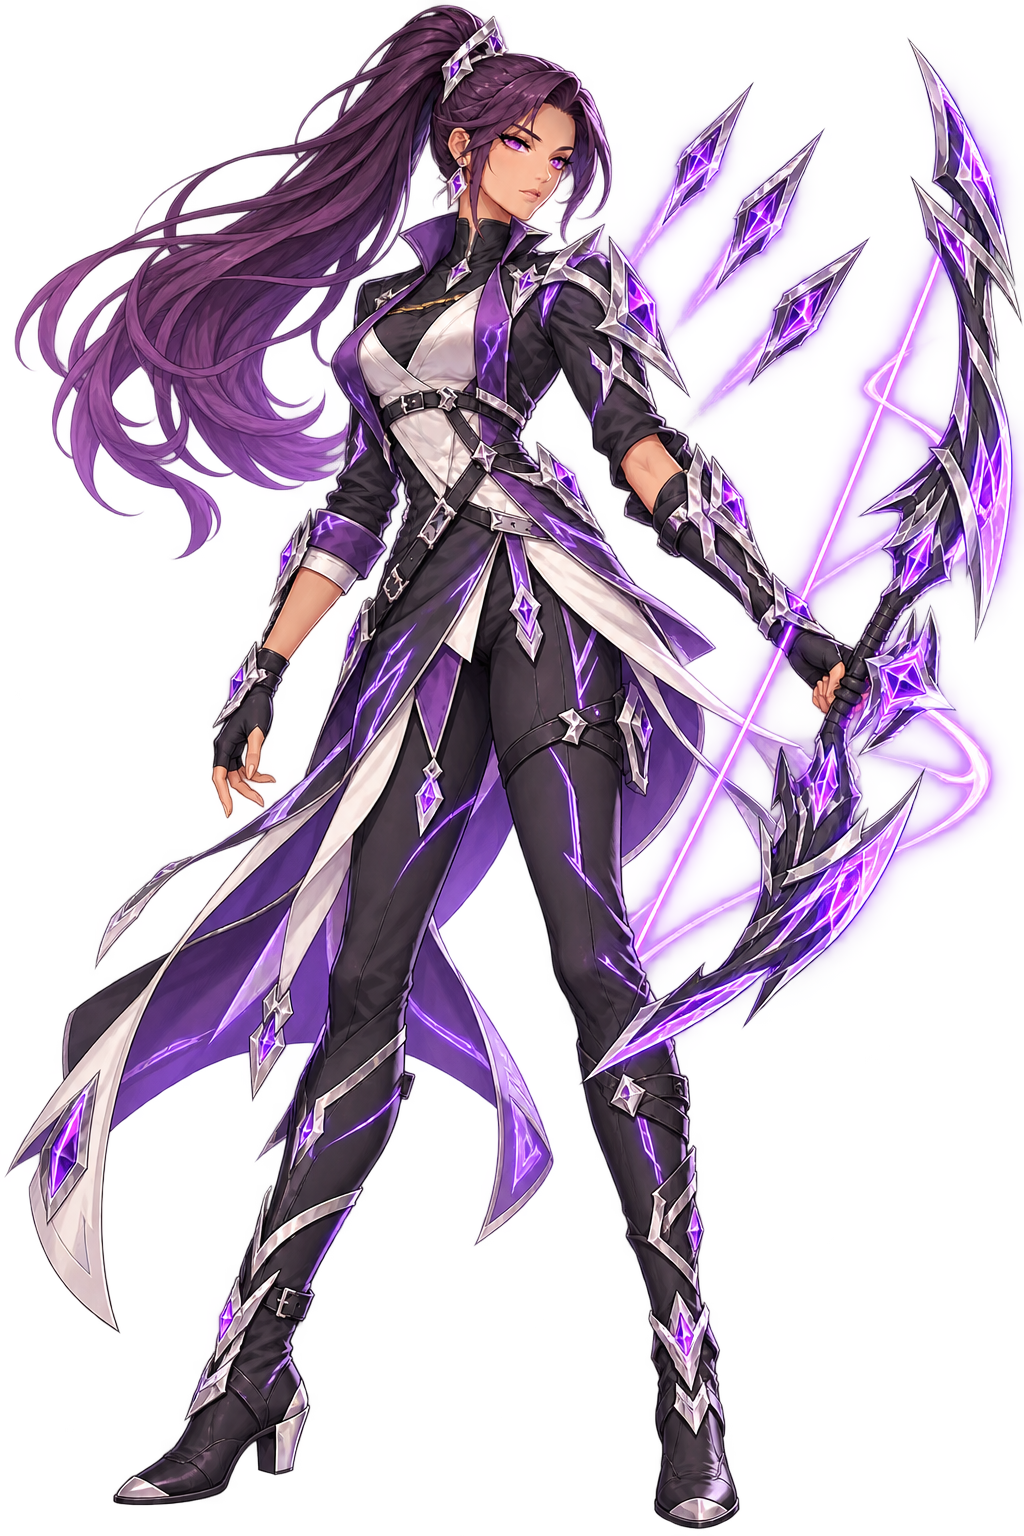
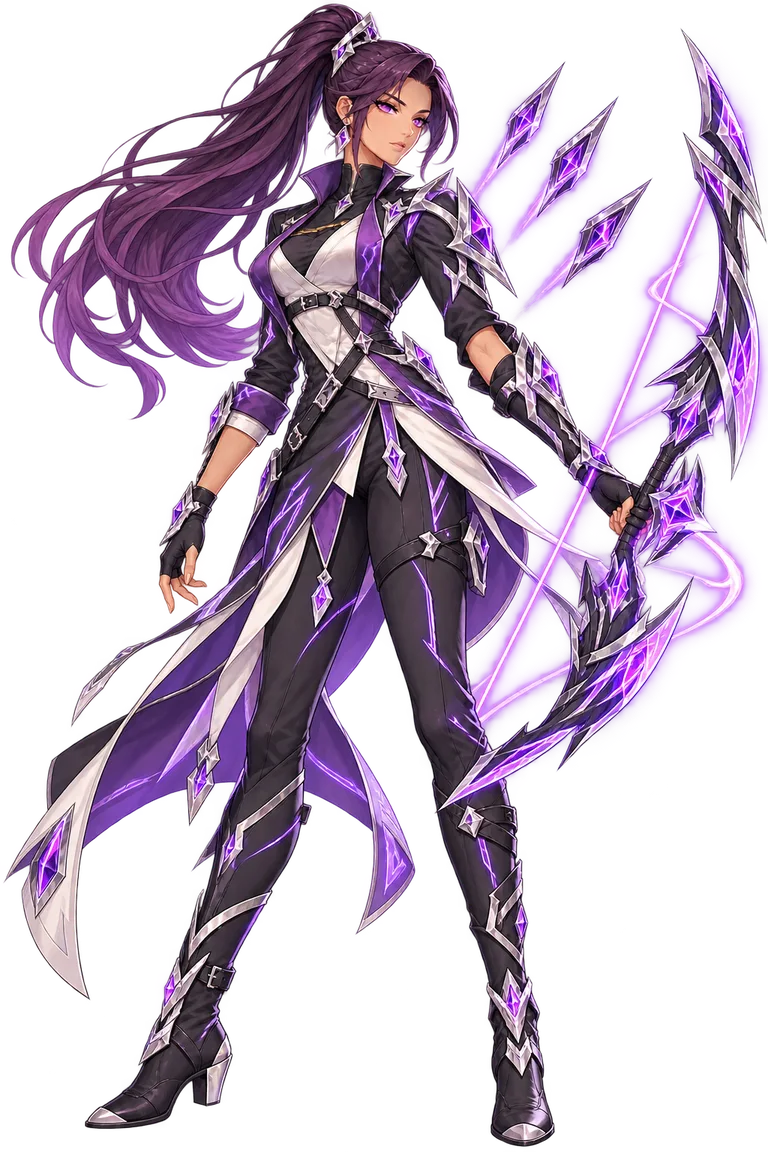
S13: 箱の消滅(Vanish)演出・盤面スキル発動後に消去・画像軽量化
Claude-Session: https://claude.ai/code/session_011H7Gz8TzCyUtz99knVupqG

diff --git a/src/next/main.ts b/src/next/main.ts
@@ -21,6 +21,8 @@ import type {RunMeta} from './meta/profile.ts';
 import {prepareDeparture} from './meta/departure.ts';
 import {roster} from './meta/roster.ts';
 import './style.css';
+import './ui/boxVanish.css';
+import {warmArt} from './ui/artWarmup.ts';
 import {createBoardSkillBanner} from './ui/boardSkillBanner.ts';
 import {TutorialController} from './tutorial/controller.ts';
 import {createTutorialUi} from './tutorial/ui.ts';
@@ -152,6 +154,8 @@ let lastActions:LastActionBreakdowns=emptyActionBreakdowns();
 let readabilityStage:number|null=null;
 function resetReadability():void{recentDrop=null;lastActions=emptyActionBreakdowns();readabilityStage=null;}
 let highlights:readonly string[]=[];
+let vanishing:{ids:ReadonlySet<string>;phase:'marked'|'fading'}|null=null;
+let lastEnemyAction:BattleState|null=null;
 let highlightTone:'damage'|'heal'|'cost'='damage';
 const history:string[]=[];
 const details=el<HTMLDialogElement>('details'), reward=el<HTMLDialogElement>('reward');
@@ -197,7 +201,7 @@ function renderBoard(s:BattleState):void{
  for(let row=0;row<s.config.board.height;row++)for(let col=0;col<s.config.board.width;col++){
   const box=boardBoxes.find(b=>b.row===row&&b.col===col),terrain=s.config.board.terrain.some(c=>c.row===row&&c.col===col),invalid=s.config.board.invalidCells.some(c=>c.row===row&&c.col===col);
   const ghost=landing?.row===row&&landing.col===col;const own=box?.owner;
-  const cls=['cell',!projection&&box&&arrivingMaterials.has(box.id)?'type-arriving':'',box&&kitTargets.includes(box.id)?'kit-target':'',own??'',terrain?'terrain':'',invalid?'invalid':'',ghost?'ghost':'',!projection&&selected?.kind==='row'&&selected.row===row?'row-target':'',!projection&&box&&highlights.includes(box.id)?`hit hit-${highlightTone}`:'',box&&moves.has(box.id)?'projection-moved':''].join(' ');
+  const cls=['cell',!projection&&box&&arrivingMaterials.has(box.id)?'type-arriving':'',box&&kitTargets.includes(box.id)?'kit-target':'',own??'',terrain?'terrain':'',invalid?'invalid':'',ghost?'ghost':'',!projection&&selected?.kind==='row'&&selected.row===row?'row-target':'',!projection&&box&&highlights.includes(box.id)?`hit hit-${highlightTone}`:'',box&&moves.has(box.id)?'projection-moved':'',!projection&&box&&vanishing?.ids.has(box.id)?`is-vanishing vanish-${vanishing.phase}`:''].join(' ');
   cells+=`<button class="${cls}" data-cell-row="${row}" data-cell-col="${col}" ${box?`data-box-id="${escape(box.id)}"`:""} aria-label="${projection?'予告 ':''}${row+1}行${col+1}列 ${own==='player'?'自箱':own==='enemy'?'敵箱':own==='neutral'?'中立箱':terrain?'地形':'空き'}${box&&box.type!=='normal'?`・${boxTypeLabels[box.type]}タイプ`:''}${box&&moves.has(box.id)?` · ${moves.get(box.id)!.from.row+1}行から落下`:''}" ${(!can||!!projection||invalid||terrain)&&!box?'disabled':''} ${box?'aria-keyshortcuts="I Shift+F10"':''}>${box?energyBoxMarkup(box,energyAppearance(s)):ghost?energyBoxMarkup({owner:'player',row,col,...(s.shinyNextDrop||s.transformation?.character==='imashiru'?{type:'shiny' as const}:{})},energyAppearance(s)):terrain?'▪':''}${target&&!projection&&col===0?`<small>${row+1}</small>`:''}${box&&moves.has(box.id)?'<span class="projection-fall" aria-hidden="true">↓</span>':''}</button>`;
  }
  el('board').innerHTML=cells;
@@ -265,6 +269,7 @@ function render(s:BattleState,resolving:boolean,run:BattleRunState|null,enemyAct
  displayed=s;locked=resolving;currentRun=run;
  if(resolving&&!controller?.persistenceBlocked)el('save-status').textContent='保存待ち';
  const rosterId=s.config.meta?.rosterId;const portrait=rosterId&&(roster[rosterId].prototype||rosterId==='imashiru')?rosterPortrait(rosterId,!!s.transformation):s.transformation?transformedPortraits[s.config.characterId!]:playerPortraits[s.config.characterId!];const enemy=enemyPortraits[s.config.enemyId!];
+ {const warmId=s.config.meta?.rosterId??s.config.characterId??'blue';warmArt([rosterPortrait(warmId).src,rosterPortrait(warmId,true).src]);}
  for(const [id,src,alt] of [['player-image',portrait.src,portrait.alt],['enemy-image',enemy.src,enemy.alt]]){
   const img=el<HTMLImageElement>(id!);img.src=src!;img.alt=alt!;
   const inspect=el<HTMLButtonElement>(id!.replace('-image','-portrait'));
@@ -339,15 +344,16 @@ const view:BattleView={
  animate:createBattleAnimator({
   motion:presentationMotion,
   begin:motion=>{activeAnimationMotion=motion;},
-  end:()=>{activeAnimationMotion=undefined;dropMotion.clear();portraitReactions.clear();boardSkillPresentation.clear();energyLinks.clear();},
+  end:()=>{vanishing=null;activeAnimationMotion=undefined;dropMotion.clear();portraitReactions.clear();boardSkillPresentation.clear();energyLinks.clear();},
   playSound:(event,resolution,index,signal,before)=>audio.playEvent(event,resolution,index,signal,{playerCharacterId:before.config.characterId??'blue'}),
   describe(event,before){const label=describe(event,before);if(label){last=label;history.push(`${before.turn}手目 ${label}`);}},
   observe:event=>{recentDrop=observeRecentDrop(recentDrop,event);},
   highlight(ids,tone){if(!ids.length)energyLinks.clear();highlights=ids;if(tone)highlightTone=tone;},
-  render:(state,enemyAction=null)=>render(state,true,controller.runSnapshot,enemyAction),
+  render:(state,enemyAction=null)=>{lastEnemyAction=enemyAction;render(state,true,controller.runSnapshot,enemyAction);},
+  vanish:(ids,phase,ms)=>{vanishing=ids.length?{ids:new Set(ids),phase}:null;root.style.setProperty('--vanish-ms',`${ms}ms`);render(displayed,true,controller.runSnapshot,lastEnemyAction);},
   drop:(event,signal,motion)=>dropMotion.play(event,{signal,motion}),
   react:(event,signal,motion)=>portraitReactions.play(event,{signal,motion}),
-  boardSkill:(event,resolution,before,signal,motion)=>{if(event.type==='board-skill'&&event.actor==='player')boardSkillBanner.play(event.skillId,boardSkillName(event.skillId),{motion,signal});if(boardSkillPresentation.play(event,resolution,before,{signal,motion}))return event.type==='board-skill'?motion.timeline!.skill.name:motion.timeline!.skill.effect;},
+  boardSkill:(event,resolution,before,signal,motion)=>{const banner=event.type==='board-skill'&&event.actor==='player'?boardSkillBanner.play(event.skillId,boardSkillName(event.skillId),{motion,signal}):0;if(boardSkillPresentation.play(event,resolution,before,{signal,motion}))return Math.max(banner,event.type==='board-skill'?motion.timeline!.skill.name:motion.timeline!.skill.effect);if(banner)return banner;},
   energy:(event,links,state,signal,motion)=>{energyLinks.play(event,links,state,signal,motion);},
   impact:event=>energyLinks.impact(event),
   feedback:showFeedback,

diff --git a/src/next/ui/battleAnimator.ts b/src/next/ui/battleAnimator.ts
@@ -40,7 +40,12 @@ export interface BattleAnimationHooks {
     }>, resolution: Resolution, index: number, signal: AbortSignal, motion: AnimationMotion, before: BattleState): Promise<unknown>;
     complete(resolution: Resolution, turn: number): void;
     pause?(milliseconds: number, signal: AbortSignal): Promise<void>;
+    /** 日本語: 箱が消える前の「Vanish状態」の表示。ids=空で解除。English: Show boxes in the Vanish state; empty ids clears it. */
+    vanish?(ids: readonly string[], phase: 'marked' | 'fading', milliseconds: number): void;
 }
+/** 日本語: 消える箱を描画の最後まで残してよい解決か（あとから箱を足す・書き換える出来事がないとき）。 */
+const VANISH_BLOCKERS = new Set(['drop', 'boxes-converted', 'boxes-shining', 'enemy-box-changed', 'kit-board-changed', 'row-cleared', 'rubble-crushed', 'transformation', 'turn-start']);
+export const VANISH_MS = Object.freeze({ full: 900, short: 160 });
 /** 日本語: 中断は待ち時間だけを終える。計算や保存を再実行しない。
  * English: Aborting releases presentation waits; it never recomputes or saves a battle. */
 export function pauseAnimation(milliseconds: number, signal: AbortSignal): Promise<void> {
@@ -63,6 +68,8 @@ export function createBattleAnimator(hooks: BattleAnimationHooks, timing: Battle
         const motion = captureAnimationMotion(hooks.motion(),timing.dropHoldMs,timing.shortDropHoldMs);
         const profile=motion.timeline!,short=profile.short;
         let elapsed=0,skillEnd=0;
+        const vanishing:string[]=[];
+        const canDefer=(index:number)=>!resolution.events.slice(index+1).some(item=>VANISH_BLOCKERS.has(item.type));
         const wait=async(ms:number)=>{await pause(ms,signal);elapsed+=ms;};
         hooks.begin?.(motion);
         try {
@@ -108,13 +115,28 @@ export function createBattleAnimator(hooks: BattleAnimationHooks, timing: Battle
                 shown = { ...shown, transformation: after.transformation, playerTurnStarted: true };
             if(event.type==='shiny-prepared')shown={...shown,gauge:before.gauge-30,shinyNextDrop:true};
             if(event.type==='boxes-thawed'){const ids=new Set(event.boxIds);shown={...shown,boxes:shown.boxes.map(box=>ids.has(box.id)?{...box,type:'normal'}:box)};}
-            if(event.type==='rubble-crushed'){const removed=new Set(event.boxIds);shown={...shown,boxes:settleBoxes(shown.config.board,shown.boxes.filter(box=>!removed.has(box.id)))};}
-            if (event.type === 'row-cleared' || event.type === 'boxes-converted'||event.type==='boxes-shining'||event.type==='kit-board-changed'||event.type==='enemy-box-changed')
-                shown = { ...shown, boxes: after.boxes };
+            // 日本語: 消える箱はVanish状態にして残し、計算がすべて終わってからゆっくり消す。
+            // English: Boxes to be removed enter the Vanish state and leave only after every calculation, slowly.
+            const gone=event.type==='kit-board-changed'?event.boxIds.filter(id=>!after.boxes.some(box=>box.id===id)):[];
+            if((event.type==='row-cleared'||event.type==='rubble-crushed'||gone.length>0)&&hooks.vanish&&canDefer(eventIndex)){
+                const removing=event.type==='row-cleared'||event.type==='rubble-crushed'?event.boxIds:gone;
+                for(const id of removing)if(!vanishing.includes(id)&&shown.boxes.some(box=>box.id===id))vanishing.push(id);
+                hooks.vanish(vanishing,'marked',0);
+            }
+            else{
+                if(event.type==='rubble-crushed'){const removed=new Set(event.boxIds);shown={...shown,boxes:settleBoxes(shown.config.board,shown.boxes.filter(box=>!removed.has(box.id)))};}
+                if (event.type === 'row-cleared' || event.type === 'boxes-converted'||event.type==='boxes-shining'||event.type==='kit-board-changed'||event.type==='enemy-box-changed')
+                    shown = { ...shown, boxes: after.boxes };
+            }
             hooks.render(shown, resolution.actor === 'enemy' ? before : null);
             const skillDuration=hooks.boardSkill?.(event, resolution, before, signal, motion);
             // A replacing skill cue owns its own tail; never unlock input with a cue still running.
-            if(typeof skillDuration==='number')skillEnd=elapsed+skillDuration;
+            if(typeof skillDuration==='number'){
+                // 日本語: 盤面スキルは発動の演出が終わってから効果を出す（消去・落下・ダメージを待たせる）。
+                if(event.type==='board-skill')await wait(skillDuration);
+                else skillEnd=elapsed+skillDuration;
+                if (signal.aborted) return;
+            }
             if (event.type === 'drop')
                 hooks.drop(event, signal, motion);
             if (feedback)
@@ -135,6 +157,15 @@ export function createBattleAnimator(hooks: BattleAnimationHooks, timing: Battle
         if(skillEnd>elapsed)await wait(skillEnd-elapsed);
         if (signal.aborted)
             return;
+        if(vanishing.length){
+            // 日本語: ここで計算は全て終了。Vanish状態の箱をゆっくり消してから、落下後の盤面へ。
+            const ms=short||motion.lowMotion?VANISH_MS.short:VANISH_MS.full;
+            hooks.vanish?.(vanishing,'fading',ms);
+            await wait(ms);
+            if (signal.aborted)
+                return;
+            hooks.vanish?.([],'marked',0);
+        }
         hooks.complete(resolution, before.turn);
         hooks.highlight([]);
         hooks.render(after);

diff --git a/tests/next-vanish.test.ts b/tests/next-vanish.test.ts
@@ -1,0 +1,35 @@
+// 日本語: 消える箱はVanish状態で残り、計算が終わってからゆっくり消える。盤面スキルは演出のあとに効果が出る。
+import test from 'node:test';
+import assert from 'node:assert/strict';
+import { applyAction, createBattle, defaultConfig } from '../src/next/core/index.ts';
+import { createTrialConfig } from '../src/next/config.ts';
+import { createBattleAnimator, VANISH_MS } from '../src/next/ui/battleAnimator.ts';
+import type { BattleAnimationHooks } from '../src/next/ui/battleAnimator.ts';
+import { boxesFor } from '../src/next/tutorial/scenes.ts';
+
+test('行消去：Vanish状態で残り、全計算の後にゆっくり消えてから落下後の盤面になる', async () => {
+  const config = { ...createTrialConfig('blue', 'tutorial-star', { ...defaultConfig, seed: 1 }, 'manual'), initialBoxes: boxesFor(['A1', 'B1', 'A2'], ['C1', 'C2']) };
+  const before = createBattle(config);
+  const result = applyAction(before, { type: 'board-skill', skillId: 'pain-shared', row: 7 });
+  assert.ok(result.accepted && result.resolution);
+  const log: string[] = [];
+  let shownIds: string[] = [];
+  const hooks: BattleAnimationHooks = {
+    motion: () => ({ short: false, lowMotion: false }), playSound() {}, describe() {}, observe() {}, highlight() {}, drop() {}, react() {},
+    feedback: () => ({ remove() {} }), transform: async () => {}, complete() { log.push('complete'); },
+    render(state) { shownIds = state.boxes.map(b => b.id); log.push(`render:${state.boxes.length}`); },
+    vanish(ids, phase, ms) { log.push(`vanish:${phase}:${ids.length}:${ms}`); },
+    pause: async () => {},
+  };
+  await createBattleAnimator(hooks)(result.resolution, before, result.state, new AbortController().signal);
+  const fading = log.findIndex(line => line.startsWith('vanish:fading'));
+  assert.ok(log.some(line => line === 'vanish:marked:3:0'), '消える3箱をVanish状態にする');
+  assert.equal(log[fading], `vanish:fading:3:${VANISH_MS.full}`);
+  // 消す前の描画では5個とも残っている（落下前の盤面）
+  assert.ok(log.slice(0, fading).filter(line => line.startsWith('render:')).every(line => line === 'render:5'));
+  // 消えたあとに、落下後の盤面（残り2箱）を最後に描く
+  assert.equal(log.at(-1), `render:${result.state.boxes.length}`);
+  assert.equal(log.at(-2), 'complete');
+  assert.equal(log.at(-3), 'vanish:marked:0:0'); // 解除してから最終盤面
+  assert.equal(shownIds.length, result.state.boxes.length);
+});

diff --git a/src/next/ui/boxVanish.css b/src/next/ui/boxVanish.css
@@ -1,0 +1,10 @@
+/* 日本語: 消える箱の「Vanish状態」。待機中はうっすら明滅し、計算が終わるとゆっくり光って消える。 */
+.cell.is-vanishing>*:not(small){transform-origin:center}
+.cell.vanish-marked>*:not(small){animation:vanish-wait 1.1s ease-in-out infinite alternate}
+.cell.vanish-fading>*:not(small){animation:vanish-away var(--vanish-ms,900ms) ease-in forwards}
+.cell.vanish-fading::after{content:"";position:absolute;inset:3px;border-radius:50%;border:2px solid #ffffffcc;opacity:0;pointer-events:none;animation:vanish-ring var(--vanish-ms,900ms) ease-out forwards}
+@keyframes vanish-wait{from{opacity:1;filter:none}to{opacity:.6;filter:saturate(.5) brightness(1.15)}}
+@keyframes vanish-away{0%{opacity:.9;filter:saturate(.5) brightness(1.2);transform:scale(1)}30%{opacity:.85;filter:saturate(.3) brightness(1.9);transform:scale(1.04)}100%{opacity:0;filter:blur(3px) brightness(2.4);transform:scale(.8) translateY(-5px)}}
+@keyframes vanish-ring{0%{opacity:0;transform:scale(.5)}30%{opacity:.9}100%{opacity:0;transform:scale(1.5)}}
+@media(prefers-reduced-motion:reduce){.cell.vanish-marked>*:not(small),.cell.vanish-fading>*:not(small){animation:none;opacity:.5}.cell.vanish-fading::after{display:none}}
+body[data-reduced-motion=true] .cell.vanish-marked>*:not(small),body[data-reduced-motion=true] .cell.vanish-fading>*:not(small){animation:none;opacity:.5}

diff --git a/src/next/ui/boardSkillBanner.ts b/src/next/ui/boardSkillBanner.ts
@@ -8,8 +8,8 @@ export function createBoardSkillBanner(root: HTMLElement) {
   let current: { finish: () => void } | undefined;
   const clear = (): void => current?.finish();
   return {
-    play(skillId: string, name: string, options: { motion: AnimationMotion; signal?: AbortSignal }): void {
-      if (!area || options.signal?.aborted) return;
+    play(skillId: string, name: string, options: { motion: AnimationMotion; signal?: AbortSignal }): number {
+      if (!area || options.signal?.aborted) return 0;
       clear();
       const reduced = options.motion.timeline?.short || options.motion.lowMotion || document.body?.dataset.reducedMotion === 'true' || !!window.matchMedia?.('(prefers-reduced-motion: reduce)').matches;
       const duration = reduced ? 600 : Math.max(700, options.motion.timeline?.skill.name ?? 760) + 120;
@@ -44,6 +44,7 @@ export function createBoardSkillBanner(root: HTMLElement) {
       const timer = setTimeout(finish, duration);
       options.signal?.addEventListener('abort', finish, { once: true });
       current = { finish };
+      return duration;
     },
     clear,
   };

diff --git a/src/next/ui/artWarmup.ts b/src/next/ui/artWarmup.ts
@@ -1,0 +1,17 @@
+// 日本語: 変化の演出で使う大きな絵を、戦闘が静かなうちに読み込んでデコードしておく（演出で初めて読むと重いため）。
+// English: Fetch and decode the big transformation art while the battle is idle, so the cinematic never waits on it.
+const kept = new Map<string, HTMLImageElement>();
+const idle = (task: () => void): void => {
+  const ric = (window as unknown as { requestIdleCallback?: (cb: () => void, o?: { timeout: number }) => number }).requestIdleCallback;
+  if (ric) ric(task, { timeout: 2500 }); else setTimeout(task, 400);
+};
+export function warmArt(urls: readonly string[]): void {
+  for (const url of urls) {
+    if (!url || kept.has(url)) continue;
+    // 日本語: 参照を保持してメモリ上のキャッシュにする。English: Holding the element keeps the decoded bitmap cached.
+    const img = new Image();
+    img.decoding = 'async';
+    kept.set(url, img);
+    idle(() => { img.src = url; void img.decode?.().catch(() => { /* 読み込み失敗は演出時にあらためて試す */ }); });
+  }
+}

diff --git a/tests/next-animation-timeline.test.ts b/tests/next-animation-timeline.test.ts
@@ -30,7 +30,8 @@ test('conversion tail is finished before completion/input unlock for normal and 
    complete(){assert(elapsed>=visualEnd,'the old implementation unlocked with 240/420ms still running');complete=true;}};
   await createBattleAnimator(hooks)(result.resolution,before,result.state,new AbortController().signal);
   assert(complete&&ended);assert.deepEqual(seen,result.resolution.events.map(e=>e.type));assert.equal(JSON.stringify(result),snapshot);
-  assert.equal(elapsed,short?390:1020);
+  // 日本語: 発動の演出(760/240ms)が終わってから効果を出すので、その分だけ全体が長くなる。
+  assert.equal(elapsed,short?390+240:1020+760);
  }
 });
 

diff --git a/CHANGES.md b/CHANGES.md
@@ -85,3 +85,10 @@
 
 ## S12 (2026-10-05)
 - チュートリアル開始時に音を「はい」にしてもBGM・効果音が「再開」表示のまま鳴らない不具合を修正
+
+## S13 (2026-10-05)
+- 箱が消えるときは「消滅(Vanish)」状態になり、計算がすべて終わってから約0.9秒かけてゆっくり消える（演出層で実装・コア/セーブ/凍結ハッシュは無変更）
+- 盤面スキルは「盤面スキル発動！」演出が終わってから消去・落下・ダメージが始まる（約+760ms）
+- 変化イラスト等を768px/q82に再圧縮（15.8MB→2.9MB）＋アイドル時の先読み/デコード(artWarmup.ts)
+- 未実施: Service Worker キャッシュ、Docsスクリプト文言の更新
+
